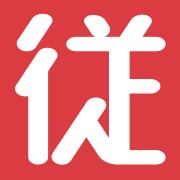
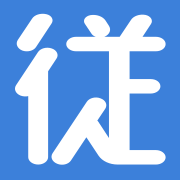
20200527

diff --git a/EmployeesMasterLaravel/menu.css b/EmployeesMasterLaravel/menu.css
@@ -56,7 +56,7 @@ li a:hover:not(.active) {
 	background-color: #a9bce2;
 }
 .active {
-	background-color: #da3c41;
+	background-color: #3c80da;
 }
 
 
@@ -68,16 +68,16 @@ li a:hover:not(.active) {
   text-align    : center;      /* 文字位置   */
   cursor        : pointer;     /* カーソル   */
   padding       : 10px 10px;     /* 余白       */
-  background    : #da3c41;     /* 背景色     */
+  background    : #3c80da;     /* 背景色     */
   color         : #ffffff;     /* 文字色     */
   line-height   : 1rem;         /* 1行の高さ  */
   transition    : .3s;         /* なめらか変化 */
   box-shadow    : 4px 4px 3px #666666;  /* 影の設定 */
-  border        : 2px solid #da3c41;    /* 枠の指定 */
+  border        : 2px solid #3c80da;    /* 枠の指定 */
 }
 .button:hover {
   box-shadow    : none;        /* カーソル時の影消去 */
-  color         : #da3c41;     /* 背景色     */
+  color         : #3c80da;     /* 背景色     */
   background    : #ffffff;     /* 文字色     */
 }
 
@@ -118,7 +118,7 @@ li a:hover:not(.active) {
 	width: 0;
 	height: 2px;
 	transition: 0.4s;
-	background-color: #da3c41;
+	background-color: #3c80da;
 }
 .ef ~ .focus_line {
 	position: absolute;
@@ -127,7 +127,7 @@ li a:hover:not(.active) {
 	width: 0;
 	height: 2px;
 	transition: 0.4s;
-	background-color: #da3c41;
+	background-color: #3c80da;
 }
 .ef:focus ~ .focus_line,
 .cp_iptxt.ef ~ .focus_line {
@@ -149,13 +149,13 @@ li a:hover:not(.active) {
 	font-size: 12px;
 	top: -16px;
 	transition: 0.3s;
-	color: #da3c41;
+	color: #3c80da;
 }
 
 
 /* 表見出し */
 .midashi {
-         border-bottom: solid 2px #da3c41;
+         border-bottom: solid 2px #3c80da;
          padding-top: 0.5rem;
          padding-right: 1rem;
          padding-left: 1rem;
@@ -165,7 +165,7 @@ li a:hover:not(.active) {
 
 /* 表見出し */
 .midashi2 {
-         border-bottom: solid 2px #da3c41;
+         border-bottom: solid 2px #3c80da;
          padding-top: 0.5rem;
          padding-right: 3rem;
          padding-left: 3rem;

diff --git a/EmployeesMasterLaravel/delete-employee.html b/EmployeesMasterLaravel/delete-employee.html
@@ -33,7 +33,7 @@
     <script src="https://code.jquery.com/jquery-1.12.4.js"></script>
     <script src="https://code.jquery.com/ui/1.12.1/jquery-ui.js"></script>
     
-<title>従業員削除</title>
+<title>Laravel_従業員削除</title>
 </head>
 <body>
     

diff --git a/EmployeesMasterLaravel/edit-employee.html b/EmployeesMasterLaravel/edit-employee.html
@@ -65,7 +65,7 @@
         } );
     </script>
     
-<title>従業員編集</title>
+<title>Laravel_従業員編集</title>
 </head>
 <body>
 

diff --git a/EmployeesMasterLaravel/new-employee.html b/EmployeesMasterLaravel/new-employee.html
@@ -58,7 +58,7 @@
         } );
     </script>
     
-<title>従業員登録</title>
+<title>Laravel_従業員登録</title>
 </head>
 
 <body>

diff --git a/EmployeesMasterLaravel/new-employee-process.php b/EmployeesMasterLaravel/new-employee-process.php
@@ -26,7 +26,7 @@
     <meta name="msapplication-square310x310logo" content="large.jpg"/>
     <meta name="msapplication-TileColor" content="#FAA500"/>
     
-    <title>従業員登録完了</title>
+    <title>Laravel_従業員登録完了</title>
 </head>
 <body>
 
@@ -47,7 +47,7 @@
 <h1>従業員新規登録完了</h1>
 
 
-<?php include('db-login.php'); ?>
+<?php include('db-login-laravel.php'); ?>
 
 
 <?php
@@ -72,8 +72,8 @@ try{
     $stmt->execute();
     
 }catch(PDOException $Exception){
-    //die('接続エラー：' .$Exception->getMessage());
-    exit("データベース処理時にエラーが発生しました<div class ='error2'>従業員ID:&nbsp;$employee_id&nbsp;のレコードがすでに存在します</div><br/>");
+    die('接続エラー：' .$Exception->getMessage());
+    //exit("データベース処理時にエラーが発生しました<div class ='error2'>従業員ID:&nbsp;$employee_id&nbsp;のレコードがすでに存在します</div><br/>");
 }
 
 ?>

diff --git a/EmployeesMasterLaravel/employees-master-manual.php b/EmployeesMasterLaravel/employees-master-manual.php
@@ -26,7 +26,7 @@
     <meta name="msapplication-square310x310logo" content="large.jpg"/>
     <meta name="msapplication-TileColor" content="#FAA500"/>
    
-<title>マニュアル</title>
+<title>Laravel_マニュアル</title>
 </head>
 <body>
 
@@ -67,7 +67,7 @@
 </p>
 
 
-<?php include('db-login.php'); ?>
+<?php include('db-login-laravel.php'); ?>
 
 <?php
 try{    
@@ -140,7 +140,7 @@ try{
 <div class="setsumei">
 <h2>従業員マスタに関するご連絡</h2>
 <p>
-<iframe src="https://docs.google.com/forms/d/e/1FAIpQLSc_W3mrjvGmZOuT2_7dw3AnMTBF3cTZCtt1zZ_FURqSBaHBew/viewform?embedded=true" height="709" frameborder="0" marginheight="0" marginwidth="0">読み込んでいます…</iframe>
+<iframe src="https://docs.google.com/forms/d/e/1FAIpQLSfdFQhvvjQaYKhONboFM5LgzG6UpoZYsx-hlJK0uAdaja_fUA/viewform?embedded=true" height="709" frameborder="0" marginheight="0" marginwidth="0">読み込んでいます…</iframe>
 </p>
 
 

diff --git a/EmployeesMasterLaravel/delete-employee-check.php b/EmployeesMasterLaravel/delete-employee-check.php
@@ -26,7 +26,7 @@
     <meta name="msapplication-square310x310logo" content="large.jpg"/>
     <meta name="msapplication-TileColor" content="#FAA500"/>
 
-<title>従業員削除確認画面</title>
+<title>Laravel_従業員削除確認画面</title>
 </head>
 <body>
 
@@ -49,7 +49,7 @@
 <h1>従業員削除確認画面</h1>
 
 <!--DBログイン-->
-<?php include('db-login.php'); ?>
+<?php include('db-login-laravel.php'); ?>
 
 
 <!--入力チェック-->

diff --git a/EmployeesMasterLaravel/new-employee-check.php b/EmployeesMasterLaravel/new-employee-check.php
@@ -26,7 +26,7 @@
     <meta name="msapplication-square310x310logo" content="large.jpg"/>
     <meta name="msapplication-TileColor" content="#FAA500"/>
         
-    <title>従業員新規登録確認画面</title>
+    <title>Laravel_従業員新規登録確認画面</title>
 
 </head>
 
@@ -48,7 +48,7 @@
     
 <h1>従業員新規登録確認画面</h1>
 
-<?php include('db-login.php'); ?>
+<?php include('db-login-laravel.php'); ?>
 
 
 <?php

diff --git a/EmployeesMasterLaravel/employees-list-filter.php b/EmployeesMasterLaravel/employees-list-filter.php
@@ -59,7 +59,7 @@
         } );
     </script>
     
-    <title>フィルタ結果</title>
+    <title>Laravel_フィルタ結果</title>
 </head>
 <body>
 
@@ -91,7 +91,7 @@
     <input type="button" onclick="location.href='https://dev-laravel.jokazaki.biz:8443/employees-list.php'" value="「従業員一覧」に戻る" class="button">
 <br/>
 
-<?php include('db-login.php'); ?>
+<?php include('db-login-laravel.php'); ?>
 
 <?php
 try{

diff --git a/EmployeesMasterLaravel/edit-employee-check.php b/EmployeesMasterLaravel/edit-employee-check.php
@@ -26,7 +26,7 @@
     <meta name="msapplication-square310x310logo" content="large.jpg"/>
     <meta name="msapplication-TileColor" content="#FAA500"/>
 
-<title>従業員編集確認画面</title>
+<title>Laravel_従業員編集確認画面</title>
 </head>
 <body>
 
@@ -48,7 +48,7 @@
 <h1>従業員編集確認画面</h1>
 
 
-<?php include('db-login.php'); ?>
+<?php include('db-login-laravel.php'); ?>
 
 
 <?php 

diff --git a/EmployeesMasterLaravel/edit-employee-process.php b/EmployeesMasterLaravel/edit-employee-process.php
@@ -26,7 +26,7 @@
     <meta name="msapplication-square310x310logo" content="large.jpg"/>
     <meta name="msapplication-TileColor" content="#FAA500"/>
  
-<title>従業員編集完了</title>
+<title>Laravel_従業員編集完了</title>
 </head>
 
 <body>
@@ -46,7 +46,7 @@
     
 <h1>従業員編集完了</h1>
 
-<?php include('db-login.php'); ?>
+<?php include('db-login-laravel.php'); ?>
 
 <?php
 try{

diff --git a/EmployeesMasterLaravel/delete-employee-process.php b/EmployeesMasterLaravel/delete-employee-process.php
@@ -27,7 +27,7 @@
     <meta name="msapplication-TileColor" content="#FAA500"/>
 
  
-<title>従業員削除完了</title>
+<title>Laravel_従業員削除完了</title>
 </head>
 
 <body>
@@ -50,7 +50,7 @@
 <h1>従業員削除完了</h1>
 
 <!--DBログイン-->
-<?php include('db-login.php'); ?>
+<?php include('db-login-laravel.php'); ?>
 
 <?php
 try{
